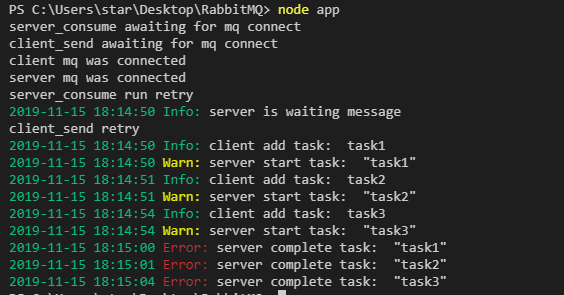
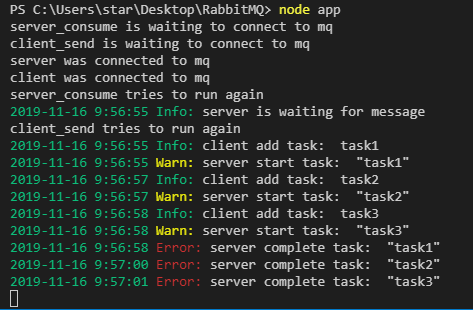
update

Changed region(s): [[0.0, 0.0, 1.0, 1.0]]

diff --git a/lib/server_consume.js b/lib/server_consume.js
@@ -9,15 +9,15 @@ async function init() {
   const conn = await amqp.connect('amqp://localhost');
   process.once('SIGINT', conn.close.bind(conn));
   ch = await conn.createChannel();
-  console.log('server mq was connected');
+  console.log('server was connected to mq');
 }
 init().catch(console.error);
 
 async function server_consume(queueName) {
   if (ch === undefined) {
-    console.log('server_consume awaiting for mq connect');
+    console.log('server_consume is waiting to connect to mq');
     await sleep(1000);
-    console.log('server_consume run retry');
+    console.log('server_consume tries to run again');
     return await server_consume(queueName);
   }
   ch.consume(queueName, async msg => {
@@ -27,7 +27,7 @@ async function server_consume(queueName) {
     logger.error(`server complete task: `, content);
     ch.ack(msg);
   });
-  logger.info('server is waiting message');
+  logger.info('server is waiting for message');
 }
 
 module.exports = server_consume

diff --git a/lib/client_send.js b/lib/client_send.js
@@ -9,15 +9,15 @@ async function init() {
   const conn = await amqp.connect('amqp://localhost');
   process.once('SIGINT', conn.close.bind(conn));
   ch = await conn.createChannel();
-  console.log('client mq was connected');
+  console.log('client was connected to mq');
 }
 init().catch(console.error);
 
 async function client_send(queueName, data) {
   if (ch === undefined) {
-    console.log('client_send awaiting for mq connect');
+    console.log('client_send is waiting to connect to mq');
     await sleep(1000);
-    console.log('client_send retry');
+    console.log('client_send tries to run again');
     return await client_send(queueName, data);
   }
   ch.sendToQueue(queueName, Buffer.from(JSON.stringify(data)));
